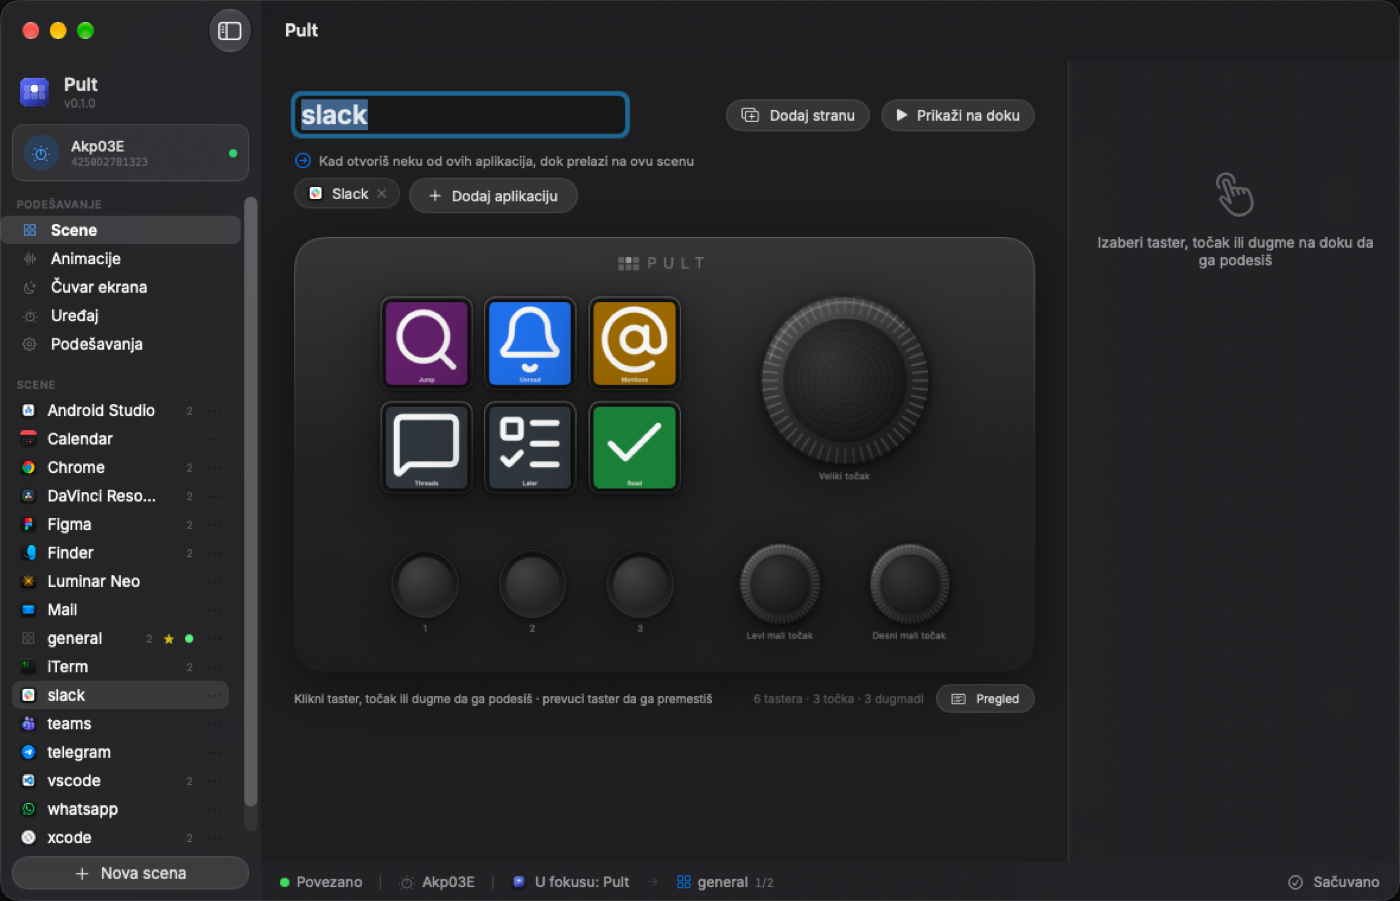
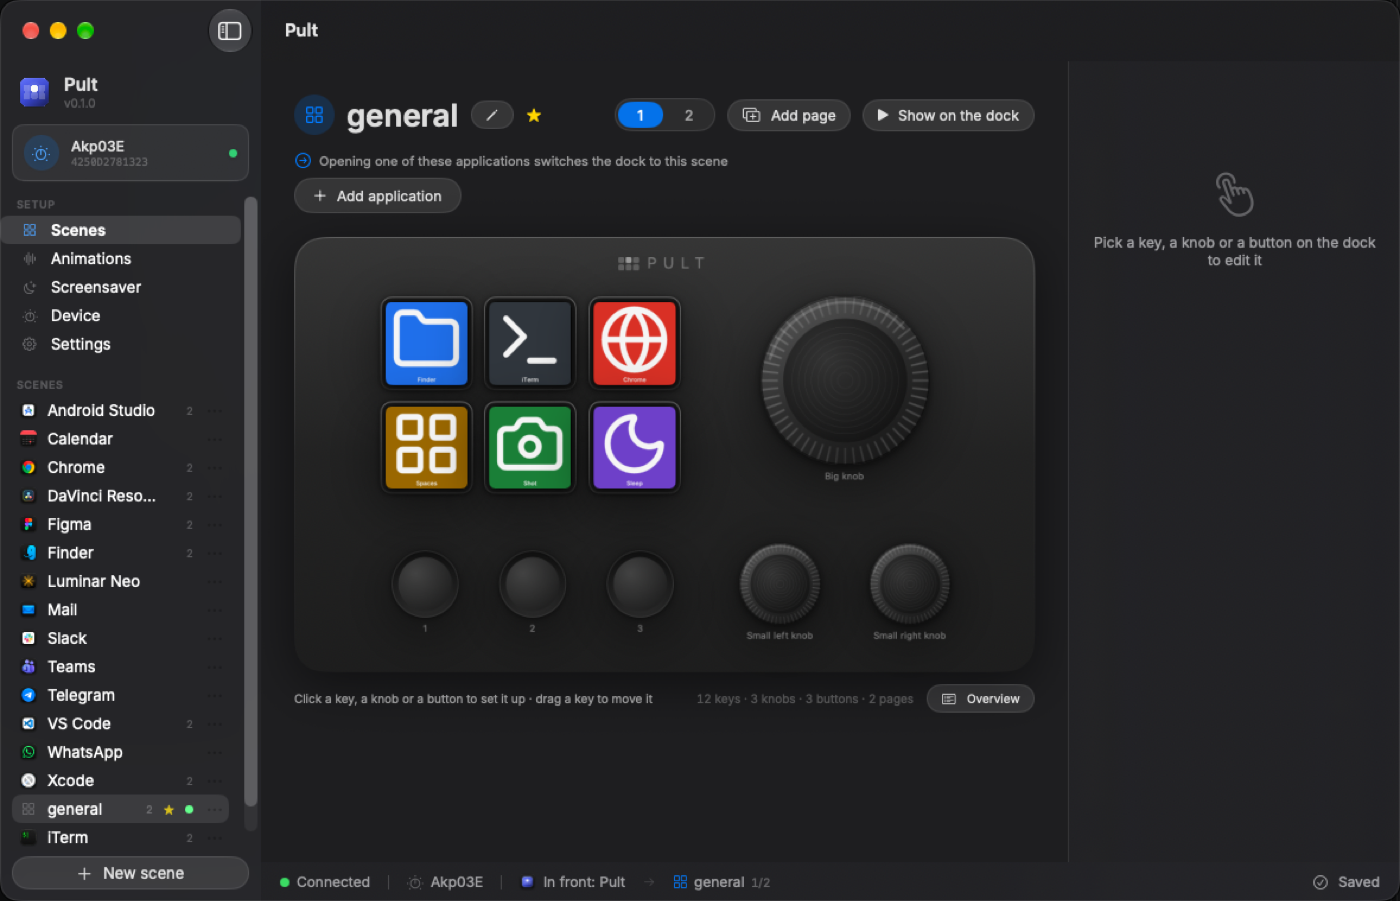
Lead with what the app is for, not with one of its features
The README opened on the animation gallery and gave the better part of its
length to canvases and seams, when the reason to install this is that the six
keys follow whatever application is in front. Scenes, keys, actions, encoders
and the device settings were a sentence each.

Reordered around what the app actually does, in the order someone meets it:
scenes and everything a key carries, the actions it can fire, the device pane,
then animations, the screensaver and settings as the sections they are. The
seam material stays, moved down into the hardware notes where it belongs — it
explains a constraint rather than selling a feature.

Pictures of all five panes, taken in English rather than Serbian, since that is
the language the page is written in.

diff --git a/README.md b/README.md
@@ -1,10 +1,10 @@
 # Pult
 
-A macOS controller for the **Ajazz AKP03E** stream dock. The six keys repaint
-themselves when you switch applications, and the whole dock can become one
-moving picture instead of six separate ones.
+A macOS app for the **Ajazz AKP03E** stream dock. The six keys follow whatever
+application is in front, and everything about them is editable without touching
+a configuration file.
 
-![The animation gallery](assets/readme/animations.png)
+![The scene editor](assets/readme/scenes.png)
 
 ```
 macOS frontmost app  →  bundle ID  →  scene  →  6 × JPEG 60×60 + an action table
@@ -12,41 +12,128 @@ macOS frontmost app  →  bundle ID  →  scene  →  6 × JPEG 60×60 + an acti
 
 The dock stores nothing but its boot logo. Every scene lives on your Mac and is
 pushed over HID, so nothing is lost when it is unplugged and nothing has to be
-synchronised.
+synchronised with anything.
 
 ## Install
 
 Download the disk image from [Releases](../../releases), drag Pult into
-Applications and open it. The first screen starts the background service and
-points at the one permission that has to be granted by hand.
+Applications and open it. The first screen starts the background service; there
+is nothing to run in a terminal.
 
 Keys bound to a keystroke need **System Settings › Privacy & Security ›
 Accessibility** (called *Device Control and Data Access* on macOS 27). Tick
-`pultd` there — the daemon, not the app: the app does not press keys, the
-daemon does. Keys bound to `run` or `volume` work without it.
+`pultd` there — the daemon, not the app: the app does not press keys, the daemon
+does. Keys bound to `run` or `volume` work without it.
 
-## What it does
+Requires macOS 26 or later.
 
-**Scenes.** One per application, matched on bundle ID. Six keys with a label, an
-icon and an action; three plain buttons; three encoders, each with a twist in
-either direction and a press of its own. More than six tools? Bind a knob to
-turn pages.
+## Scenes
 
-**Animations.** A scene can paint across the whole dock instead of six separate
-pictures. Ten built-in motions, or a file of your own — a GIF, an animated PNG
-or WebP, a folder of numbered frames, or one still picture.
+A scene is a page of keys, and it claims one or more applications by bundle ID.
+Open one of them and the dock switches to it; a trailing `*` matches a prefix,
+so `com.adobe.*` is one rule rather than nine. One scene is the default, for
+everything that claims nothing.
 
-**A screensaver.** When nobody has touched the Mac for a while the dock stops
-being a controller and becomes something to look at, cycling through a playlist
-of animations and dissolving between them. Nothing in Pult keeps the Mac awake;
-it asks to paint one last frame before sleep and then lets go.
+Each of the **six keys with a display** carries:
 
-**Both languages.** English and Serbian, switched live, along with a text size
-that scales the whole interface.
+* a **label**, which shrinks and wraps to fit rather than being cut off
+* an **icon** — one of 1865 from [Lucide](https://lucide.dev), or an image of
+  your own, with its own colour
+* a **background colour**, and text black or white, whichever reads better,
+  unless you say otherwise
+* an **animation**, per key, for the ones worth noticing
+* one **action**
 
-![The scene editor](assets/readme/scenes.png)
+Keys can be dragged to swap them. Past the sixth they spill onto further pages;
+bind a knob to turn them, and the dock shows which page it is on.
 
-*The scene editor, here in Serbian.*
+There are also **three plain buttons** with no display, and **three encoders**,
+each with a twist in either direction and a press of its own — nine bindings
+from the knobs alone.
+
+### What a key can do
+
+| | |
+|---|---|
+| `shortcut` | Press a key combination, as though you had typed it |
+| `run` | Run a command |
+| `app` | Open an application |
+| `scene` | Switch the dock to another scene |
+| `page` | Turn to the next or previous page |
+| `volume` | Raise or lower the system volume |
+
+Every key is drawn by the daemon and sent as a finished picture, so what the
+editor shows is what the dock shows — the preview is the same renderer.
+
+## The device
+
+![The device pane](assets/readme/device.png)
+
+Brightness, applied as you drag it. Sleep and wake on demand. And the **boot
+logo** — the one thing the dock keeps in its own memory and goes on showing as
+the backdrop behind the keys. Set your own picture, put Pult's mark there, or
+take it off again.
+
+Worth knowing before you write one: the dock hands no picture back, so the logo
+it shipped with is gone the moment the first one is written. "Remove" writes a
+black panel over it, which is what removing can honestly mean here.
+
+## Animations
+
+A scene can paint across the whole dock instead of six separate pictures: ten
+built-in motions, or a file of your own — a GIF, an animated PNG or WebP, a
+folder of numbered frames, or one still picture.
+
+![The animation gallery](assets/readme/animations.png)
+
+Pick one by looking at it. Every tile is the real dock running the real motion,
+with the real plastic drawn in, because that is the one question a flat preview
+cannot answer.
+
+Each effect declares the settings it honours and the range it will accept, and
+the editor builds its controls from that — so a slider can never outlive the
+thing it drives, and a new effect grows the gallery with no change to the app.
+Before saving, put it on the dock for twenty seconds and watch it there; the
+trial expires on its own.
+
+## Screensaver
+
+![The screensaver pane](assets/readme/screensaver.png)
+
+After a while with nobody touching the Mac, the dock stops being a controller
+and becomes something to look at: a playlist of animations, each running for as
+long as you say, dissolving into the next.
+
+A press on the dock counts as activity even though macOS never sees it, and the
+press that wakes it is swallowed so it does not also fire what that key does.
+You can choose the brightness it rests at, and the still picture it holds while
+the Mac sleeps.
+
+Nothing here keeps the Mac awake. The dock asks to paint one last frame before
+sleep and then lets go.
+
+## Settings
+
+![Settings](assets/readme/settings.png)
+
+Light, dark or follow the system. **English or Serbian**, switched live. A text
+size that scales the whole interface, not just the labels. How often the
+frontmost application is checked, and whether a press flashes on screen.
+
+The background service can be restarted, stopped, set to start at login, or
+repaired if the app has been moved. The configuration can be revealed, exported
+and loaded back.
+
+## Configuration as a file
+
+Everything the interface does is a file at `~/.config/pult/config.toml`, written
+from [`config.example.toml`](config.example.toml) on first run and documented in
+place. It is picked up while the daemon runs; a file that fails to parse is
+reported and the running one is kept.
+
+The file and the app are interchangeable in both directions. Anything the app
+does not understand — a key from a newer build, a table added by hand — survives
+a save untouched rather than being quietly dropped.
 
 ## The hardware
 
@@ -72,17 +159,13 @@ Measured on the wire: one key is 1.2 ms, all six plus a flush is 5.2 ms. At 15
 frames a second a full-dock animation spends about 8% of the dock's time
 receiving pictures, and well under 1% of a core drawing them.
 
-## Animations, and the seams
+### The seams
 
 Six 60×60 screens with plastic between them are not a 180×120 image. The gaps
 are real — about a quarter of a key — so a canvas is larger than the sum of its
 keys, and each key is a window cut out of it.
 
 ![Every effect, with the real seams drawn in](assets/readme/effects.png)
-
-*Every effect as the dock really shows it, bezels included.*
-
-Which geometry is right depends on what is being drawn:
 
 * **Physical** — 212×136, true geometry. A circle stays round and a diagonal
   stays straight, at the cost that a travelling front disappears for the width
@@ -92,24 +175,6 @@ Which geometry is right depends on what is being drawn:
 
 Static text and photographs belong on neither: a letter cut by 16 px of plastic
 is a letter gone.
-
-Every effect is a pure function of `(phase, seed)`. Phase is an accumulator the
-daemon advances by `dt × speed`, which is why moving the speed slider changes
-how fast the picture moves and never where it is. Each effect also declares the
-settings it honours and the range it will accept, and the editor builds its
-controls from that — so a slider can never outlive the thing it drives, and a
-new effect grows the gallery with no change to the app.
-
-## Configuration
-
-Everything the interface does is a file at `~/.config/pult/config.toml`, written
-from [`config.example.toml`](config.example.toml) on first run and documented in
-place. It is picked up while the daemon runs; a file that fails to parse is
-reported and the running one is kept.
-
-The file and the app are interchangeable in both directions. Anything the app
-does not understand — a key from a newer build, a table added by hand — survives
-a save untouched rather than being quietly dropped.
 
 ## Build from source
 
